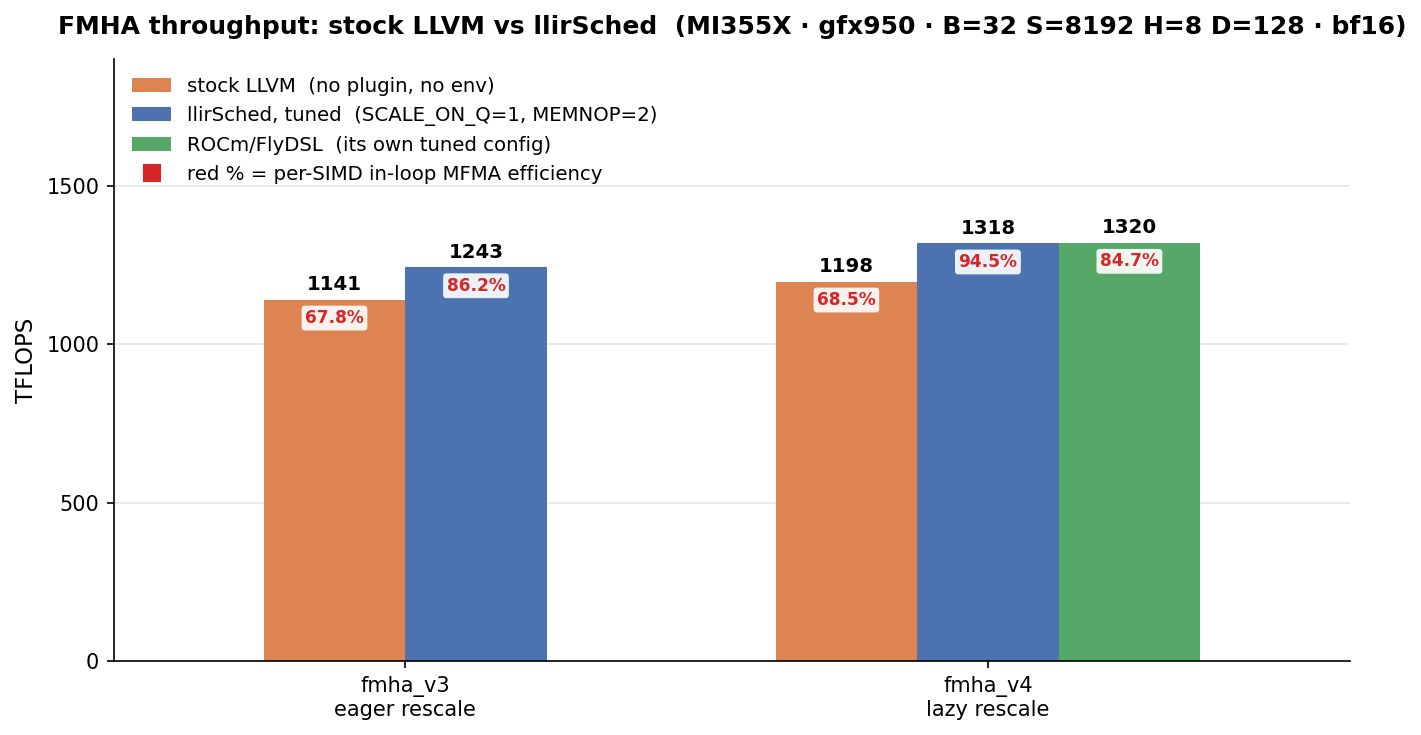
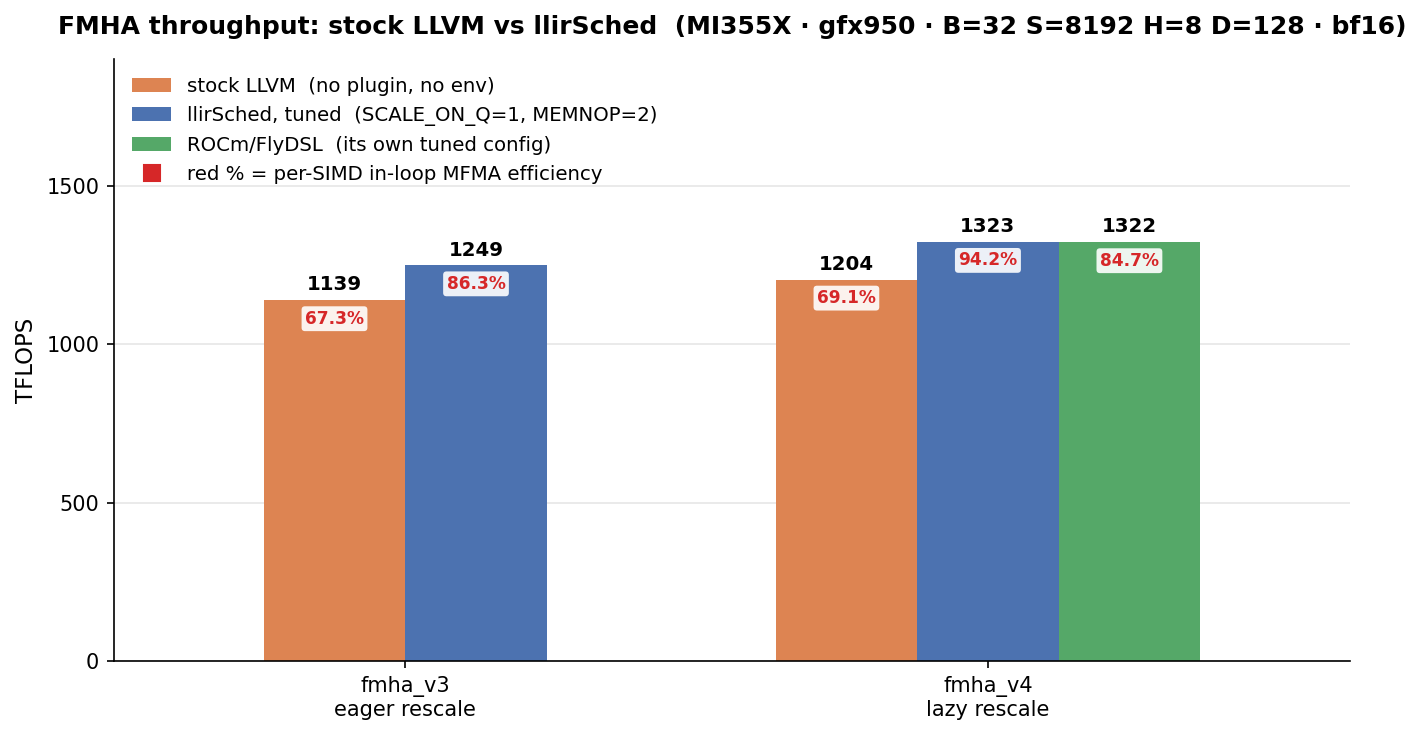
attention README: refresh every measured number in one session
Section 9's figures came from a different session than section 7's, so the
document carried two values for identical configurations. Everything measured
is now from one session on GPU[0]: five configurations timed interleaved over
three rounds (spread 0.5-4.5 TFLOPS) with an ATT trace each, plus clock and
power sampling and two runs at other shapes.

  ROCm/FlyDSL      1322  84.7%  loop 94.2%  4837 cyc/iter
  fmha_v4 tuned    1323  94.2%  loop 90.5%  4349
  fmha_v3 tuned    1249  86.3%  loop 91.5%  4745
  fmha_v4 stock    1204  69.1%  loop 91.8%  5924
  fmha_v3 stock    1139  67.3%  loop 92.3%  6084

Nothing in the argument changed -- every row landed within 0.5 points of
efficiency and 0.52% of throughput of what was there, and FlyDSL's 84.7%
reproduced to the digit. The table gains the loop fraction and cyc/iter columns,
since both were quoted in the prose without being shown.

Two claims are now measured rather than asserted:

- "bf16 measures 3-7% faster than fp16 at identical cycle counts" is exact:
  1323 vs 1241 (+6.6%) from cycle counts agreeing to 0.006% (4349.35 vs
  4349.11) and efficiency identical to two decimals (47.09% both).
- The B=1 S=16384 lead over FlyDSL is 12.1% (1326 vs 1184), not 9.3%.

One claim got weaker and says so. The cycles-versus-clock decomposition no
longer cancels: fmha_v4's cycle advantage is +6.9% and FlyDSL's clock advantage
+8.7%, which predicts FlyDSL 1.8% ahead where the measurement is a dead heat.
[…]

diff --git a/scripts/plot_fmha_summary.py b/scripts/plot_fmha_summary.py
@@ -57,12 +57,12 @@ groups = [
     (
         "fmha_v3",
         "eager rescale",
-        [("stock", 1141, 67.8), ("tuned", 1243, 86.2)],
+        [("stock", 1139, 67.3), ("tuned", 1249, 86.3)],
     ),
     (
         "fmha_v4",
         "lazy rescale",
-        [("stock", 1198, 68.5), ("tuned", 1318, 94.5), ("ref", 1320, 84.7)],
+        [("stock", 1204, 69.1), ("tuned", 1323, 94.2), ("ref", 1322, 84.7)],
     ),
 ]
 COLOR = {"stock": C_STOCK, "tuned": C_TUNED, "ref": C_REF}

diff --git a/kernels/attention/README.md b/kernels/attention/README.md
@@ -6,15 +6,15 @@ architecture and differ in how they handle the softmax rescale.
 
 ![FMHA throughput, stock LLVM vs llirSched, for both kernels and against ROCm/FlyDSL](images/results.png)
 
-Tuned, `fmha_v4` reaches **1318 TFLOPS** at **94.5%** in-loop MFMA efficiency per SIMD, and
-`fmha_v3` 1243 at 86.2%. The reference point is ROCm/FlyDSL, whose published configuration reaches
-**1320** on this shape from **84.7%** efficiency — level with `fmha_v4` on throughput, ten points
-behind it on how much of the matrix pipe's time goes to matrix work. The orange bar in each group is
-the same kernel source built without the scheduling plugin. [§9](#9-results) works through what separates all
-five, and what each step costs.
+Tuned, `fmha_v4` reaches **1323 TFLOPS** at **94.2%** in-loop MFMA efficiency per SIMD, and
+`fmha_v3` 1249 at 86.3%. The reference point is ROCm/FlyDSL, whose published configuration reaches
+**1322** on this shape from **84.7%** efficiency — a dead heat with `fmha_v4` on throughput, nine
+and a half points behind it on how much of the matrix pipe's time goes to matrix work. The orange
+bar in each group is the same kernel source built without the scheduling plugin. [§9](#9-results) works through
+what separates all five, and what each step costs.
 
-That efficiency number is what the rest of this document is about. 94.5% means the matrix pipe
-takes a new MFMA in 94.5% of the loop's cycles, and the missing 5.5% is time the SIMD spent
+That efficiency number is what the rest of this document is about. 94.2% means the matrix pipe
+takes a new MFMA in 94.2% of the loop's cycles, and the missing 5.8% is time the SIMD spent
 issuing something it could not hide behind one. So the design question is what *else* an FMHA
 kernel has to issue, and where that work can go.
 
@@ -644,64 +644,74 @@ rest on.
 
 `B=32, S=8192, H=8, D=128, bf16`, non-causal, MI355X, `rocm-smi` GPU[0] — ROCm/FlyDSL's published
 benchmark shape. TFLOPS is the mean of three runs of `rocprofv3 --kernel-trace` with
-`AMD_SERIALIZE_KERNEL=3`, averaging the last 100 of 1000 dispatches; MFMA efficiency is the
-in-loop per-SIMD figure from an ATT instruction trace. The five configurations were run
+`AMD_SERIALIZE_KERNEL=3`, averaging the last 100 of 1000 dispatches; MFMA efficiency and the loop
+fraction come from an ATT instruction trace of one dispatch. The five configurations were run
 **interleaved** — one of each, three times round — so any drift in the board hits every row
-equally. Every row here is stable to about 2 TFLOPS.
+equally. Round-to-round spread was 0.5 to 4.5 TFLOPS.
 
-| | TFLOPS | MFMA eff / SIMD |
-|---|---:|---:|
-| *ROCm/FlyDSL* — its own tuned config | *1320* | 84.7% |
-| **`fmha_v4`** — llirSched, `SCALE_ON_Q=1`, `MEMNOP=2` | **1318** | **94.5%** |
-| **`fmha_v3`** — llirSched, `SCALE_ON_Q=1`, `MEMNOP=2` | **1243** | 86.2% |
-| `fmha_v4` — stock LLVM, no plugin, no env | 1198 | 68.5% |
-| `fmha_v3` — stock LLVM, no plugin, no env | 1141 | 67.8% |
+| | TFLOPS | MFMA eff / SIMD | in loop | cyc/iter |
+|---|---:|---:|---:|---:|
+| *ROCm/FlyDSL* — its own tuned config | *1322* | 84.7% | 94.2% | 4837 |
+| **`fmha_v4`** — llirSched, `SCALE_ON_Q=1`, `MEMNOP=2` | **1323** | **94.2%** | 90.5% | **4349** |
+| **`fmha_v3`** — llirSched, `SCALE_ON_Q=1`, `MEMNOP=2` | **1249** | 86.3% | 91.5% | 4745 |
+| `fmha_v4` — stock LLVM, no plugin, no env | 1204 | 69.1% | 91.8% | 5924 |
+| `fmha_v3` — stock LLVM, no plugin, no env | 1139 | 67.3% | 92.3% | 6084 |
 
-**What lazy rescaling is worth** is the distance between the two kernels: **+5.0%** on stock LLVM
-(1141 → 1198) and **+6.0%** tuned (1243 → 1318). The efficiency column says something the
-throughput column does not, though. Stock LLVM cannot tell the two kernels apart where it counts —
-67.8% against 68.5%, **+0.7 points** — while the tuned rows are **8.3 points** apart. Lazy
-rescaling does not make the loop faster by itself: it *frees budget* ([§5](#5-fmha_v3--fmha_v4-getting-under-the-budget)), and only something
-downstream that spends that budget converts it into cycles. A design that creates headroom only
-pays if something spends it. **Its price** is that `fmha_v4` cannot be written in stock Gluon —
-skipping the rescale per wave needs `gl.warp_predicate` — and that removing the rescale unbalances
-the two dot clusters enough that part of the softmax has to be moved between them by hand ([§5](#5-fmha_v3--fmha_v4-getting-under-the-budget)).
+**What lazy rescaling is worth** is the distance between the two kernels: **+5.7%** on stock LLVM
+(1139 → 1204) and **+5.9%** tuned (1249 → 1323). The efficiency column says something the throughput
+column does not, though. Stock LLVM barely tells the two kernels apart where it counts — 67.3%
+against 69.1%, **+1.8 points** — while the tuned rows are **7.9 points** apart, four times as far.
+Lazy rescaling does not make the loop faster by itself: it *frees budget* ([§5](#5-fmha_v3--fmha_v4-getting-under-the-budget)), and only something
+downstream that spends that budget converts it into cycles. A design that creates headroom only pays
+if something spends it. **Its price** is that `fmha_v4` cannot be written in stock Gluon — skipping
+the rescale per wave needs `gl.warp_predicate` — and that removing the rescale unbalances the two dot
+clusters enough that part of the softmax has to be moved between them by hand ([§5](#5-fmha_v3--fmha_v4-getting-under-the-budget)).
 
 **What the scheduling is worth** is the distance within each kernel, from its stock build to its
-tuned one: **+10.0%** of throughput on `fmha_v4` and **+8.9%** on `fmha_v3`, and in efficiency terms
-**+26.0** and **+18.4 points**. It is the larger of the two effects, and everything in [§5](#5-fmha_v3--fmha_v4-getting-under-the-budget) and
+tuned one: **+9.7%** of throughput on `fmha_v3` and **+9.9%** on `fmha_v4`, and in efficiency terms
+**+19.0** and **+25.1 points**. It is the larger of the two effects, and everything in [§5](#5-fmha_v3--fmha_v4-getting-under-the-budget) and
 [§6](#6-making-the-compiler-co-operate) lives in that gap. **Its price** is that the interleave has to be *declared* rather than left
 to the machine scheduler — every vector op assigned to a specific MFMA's shadow and emitted as a
 `sched_group_barrier` sequence for IGroupLP to construct — and the ops then kept in the cluster
 they were assigned to ([§6](#6-making-the-compiler-co-operate)).
 
 **The ceilings from [§5](#5-fmha_v3--fmha_v4-getting-under-the-budget) still frame the tuned rows.** `fmha_v4`'s demand fits its window, so its
-ceiling is 100% and it reaches 94.5%. `fmha_v3` leaves 4 × 48 = 192 cycles exposed per loop body
-against 2048 of MFMA, so its ceiling is 2048/2240 = **91.4%** and it reaches 86.2%. The two are
-8.3 points apart while their ceilings are 8.6 apart — so the whole difference is work `fmha_v3`'s
+ceiling is 100% and it reaches 94.2%. `fmha_v3` leaves 4 × 48 = 192 cycles exposed per loop body
+against 2048 of MFMA, so its ceiling is 2048/2240 = **91.4%** and it reaches 86.3%. The two are
+7.9 points apart while their ceilings are 8.6 apart — so the whole difference is work `fmha_v3`'s
 budget cannot absorb rather than a worse schedule, and each lands within about 5.5 points of its
-own ceiling.
+own ceiling (5.8 and 5.1).
 
 **On the FlyDSL row.** This is its published configuration, and its published figure of 1320
-TFLOPS reproduces exactly (1319.4 / 1319.6 / 1320.2). `fmha_v4` ties it — 0.2% apart, well inside
-any spread — and `fmha_v3` is 5.8% behind.
+TFLOPS reproduces (1321.1 / 1321.3 / 1322.6). `fmha_v4` and it are a dead heat — 1323 against 1322,
+0.1% apart on a metric whose round-to-round spread is larger than that — and `fmha_v3` is 5.5%
+behind.
 
-The interesting part is *how* they tie, because the two kernels are strong in different places.
-`fmha_v4` needs about 10% fewer cycles for the same work (94.5% against 84.7%). FlyDSL spends more of
-its time in the loop (94.1% against our 88.3% — its pipeline fill and drain are cheaper than our
-four-stage one) and clocks **5.2% higher** at comparable power. Those cancel:
+The interesting part is *how* they tie, because the two are strong in different places. `fmha_v4`
+needs **10% fewer cycles** for the same work: 4349 per loop iteration against 4837, which is the
+94.2%-against-84.7% efficiency gap restated. FlyDSL spends more of its time in the loop (94.2%
+against our 90.5% — its pipeline fill and drain are cheaper than our four-stage one) and clocks
+**8.7% higher** while drawing 25 W more. Those two effects run in opposite directions and mostly
+offset:
 
 ```
-fmha_v4 cycle advantage    (0.945 x 0.8833) / (0.847 x 0.9413)  = +4.8%
-FlyDSL clock advantage   1650.9 MHz / 1569.8 MHz             = +5.2%
+fmha_v4 cycle advantage   (0.942 x 0.9048) / (0.847 x 0.9417)  = +6.9%
+FlyDSL  clock advantage    1676.6 MHz / 1542.6 MHz             = +8.7%
 ```
+
+They do not cancel exactly: taken at face value that arithmetic predicts FlyDSL about 1.8% ahead,
+where the measurement is a dead heat. Do not over-read the residual — the clock and power figures
+are sampled at 1 Hz over a longer run than the timed window, and the cycle figures come from a
+single traced dispatch, so the two halves are not measured under identical conditions. The robust
+statement is the qualitative one: `fmha_v4` wins on cycles, FlyDSL wins on clock, and at this shape
+they land on top of each other.
 
 **And the ranking is shape-dependent, so treat one number with care.** At `B=1, S=16384` the board
-runs pinned to its ~1400 W cap; there cycles are what matter and `fmha_v4` leads FlyDSL by 9.3%. At
-the shape above there is power headroom, FlyDSL's clock advantage cashes in, and the two are level.
-Neither shape is *the* answer — that one flatters us, this one flatters them. The quantity that
-does not move between them is the in-loop MFMA efficiency, which is the only thing in this table
-the scheduler actually controls.
+runs pinned to its ~1400 W cap; there cycles are what matter and `fmha_v4` leads FlyDSL by **12.1%**
+(1326 against 1184). At the shape above there is power headroom, FlyDSL's clock advantage cashes in,
+and the two are level. Neither shape is *the* answer — that one flatters us, this one flatters them.
+The quantity that does not move between them is the in-loop MFMA efficiency, which is the only thing
+in this table the scheduler actually controls.
 
 **Before trusting any cross-implementation row, check that the work was handed out the same way** —
 a difference in grid or occupancy would confound the whole table. It does not here: both sides
@@ -723,10 +733,11 @@ what a scheduling change moves — but it carries no information a cycle count d
 
 **Cycles and TFLOPS disagree, and both are honest about different things.** A denser MFMA stream
 draws more power, and against a power cap that buys back a lower clock — so a change can be worth
-several percent of cycles and under one percent of wall time. bf16 is the cleanest example: it
-measures 3–7% faster than fp16 at *identical* cycle counts and identical in-loop efficiency, with
-the whole difference coming from clock, because its narrower mantissa toggles less of the
-multiplier array. Judge a scheduling change by cycles; judge a kernel by both.
+several percent of cycles and under one percent of wall time. bf16 is the cleanest example, and it is exact
+rather than approximate: at this shape `fmha_v4` measures **1323** in bf16 against **1241** in fp16,
+**+6.6%**, from cycle counts that agree to **0.006%** (4349.35 against 4349.11 per iteration) and an
+in-loop efficiency identical to two decimals (47.09% both). Every bit of that 6.6% is clock, bought
+because bf16's narrower mantissa toggles less of the multiplier array. Judge a scheduling change by cycles; judge a kernel by both.
 
 Both harnesses were run under one protocol — `scripts/fly_kernel_time.py` builds FlyDSL's
 `flash_attn_dualwave_swp` through its own builder and then times it exactly as
